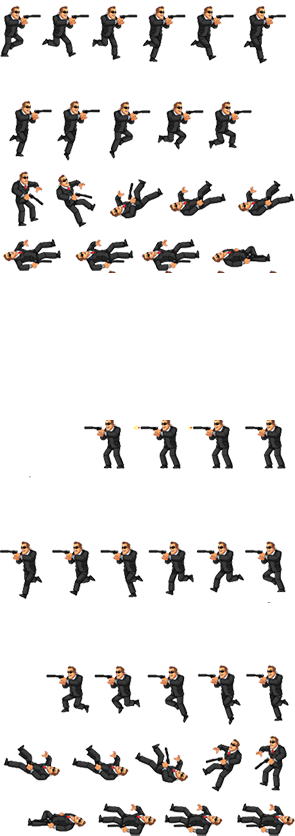
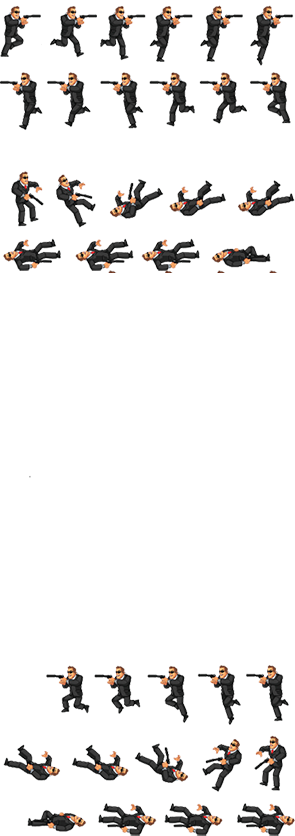
Fixed enemy animations for walking left & right

diff --git a/Ejento 148/Enemy.cpp b/Ejento 148/Enemy.cpp
@@ -9,7 +9,7 @@
 Enemy::Enemy(sf::Vector2f pos, float s, int h) :
 	position(pos), speed(s), enemyHealth(h)
 {
-	if (!texture.loadFromFile("resources/images/temp-enemy.png")) {
+	if (!texture.loadFromFile("resources/images/enemy.png")) {
 		std::cout << "Failed to load enemy spritesheet!" << std::endl;
 	}
 
@@ -18,7 +18,7 @@ Enemy::Enemy(sf::Vector2f pos, float s, int h) :
 	// Set up the animations for all four directions (set spritesheet and push frames)
 	// Idle left
 	idleAnimationLeft.setSpriteSheet(texture);
-	idleAnimationLeft.addFrame(sf::IntRect(0, 0, enemyWidth, enemyHeight));
+	idleAnimationRight.addFrame(sf::IntRect(0, 0, enemyWidth, enemyHeight));
 
 	// Idle right
 	idleAnimationRight.setSpriteSheet(texture);
@@ -40,11 +40,23 @@ Enemy::Enemy(sf::Vector2f pos, float s, int h) :
 	dyingAnimationRight.setSpriteSheet(texture);
 	dyingAnimationRight.addFrame(sf::IntRect(0, 0, enemyWidth, enemyHeight));
 
+	// Walking left
 	walkingAnimationLeft.setSpriteSheet(texture);
-	walkingAnimationLeft.addFrame(sf::IntRect(0, 0, enemyWidth, enemyHeight));
+	walkingAnimationLeft.addFrame(sf::IntRect(250, 67, enemyWidth, enemyHeight));
+	walkingAnimationLeft.addFrame(sf::IntRect(200, 67, enemyWidth, enemyHeight));
+	walkingAnimationLeft.addFrame(sf::IntRect(150, 67, enemyWidth, enemyHeight));
+	walkingAnimationLeft.addFrame(sf::IntRect(100, 67, enemyWidth, enemyHeight));
+	walkingAnimationLeft.addFrame(sf::IntRect(50, 67, enemyWidth, enemyHeight));
+	walkingAnimationLeft.addFrame(sf::IntRect(0, 67, enemyWidth, enemyHeight));
 
+	// Walking right
 	walkingAnimationRight.setSpriteSheet(texture);
 	walkingAnimationRight.addFrame(sf::IntRect(0, 0, enemyWidth, enemyHeight));
+	walkingAnimationRight.addFrame(sf::IntRect(50, 0, enemyWidth, enemyHeight));
+	walkingAnimationRight.addFrame(sf::IntRect(100, 0, enemyWidth, enemyHeight));
+	walkingAnimationRight.addFrame(sf::IntRect(150, 0, enemyWidth, enemyHeight));
+	walkingAnimationRight.addFrame(sf::IntRect(200, 0, enemyWidth, enemyHeight));
+	walkingAnimationRight.addFrame(sf::IntRect(250, 0, enemyWidth, enemyHeight));
 
 	currentAnimation = &idleAnimationLeft;
 
@@ -137,7 +149,7 @@ void Enemy::UpdateState(Player &player) {
 	// Check if the enemy's health has been reduced to 0
 	if (enemyHealth <= 0) { state = State::dying; }
 
-	// Check if the player is within viewing range of the enemy
+	// Check if the player is within vertical viewing range of the enemy
 	if (player.getPosition().y > animation.getPosition().y 
 		&& player.getPosition().y < (animation.getPosition().y + enemyHeight)) {
 		// Check if the player within shooting range

diff --git a/Ejento 148/Enemy.h b/Ejento 148/Enemy.h
@@ -35,10 +35,11 @@ private:
 		jumpSpeed = 600.0f;
 
 	int enemyHealth, 
-		enemyWidth = 60, 
-		enemyHeight = 60,
+		enemyWidth = 42, 
+		enemyHeight = 64,
 		walkDistance = 100,
-		bulletRange = 200;
+		bulletRange = 200,
+		viewRange = 300;
 
 	bool grounded = false,
 		invulnerable = false, 
